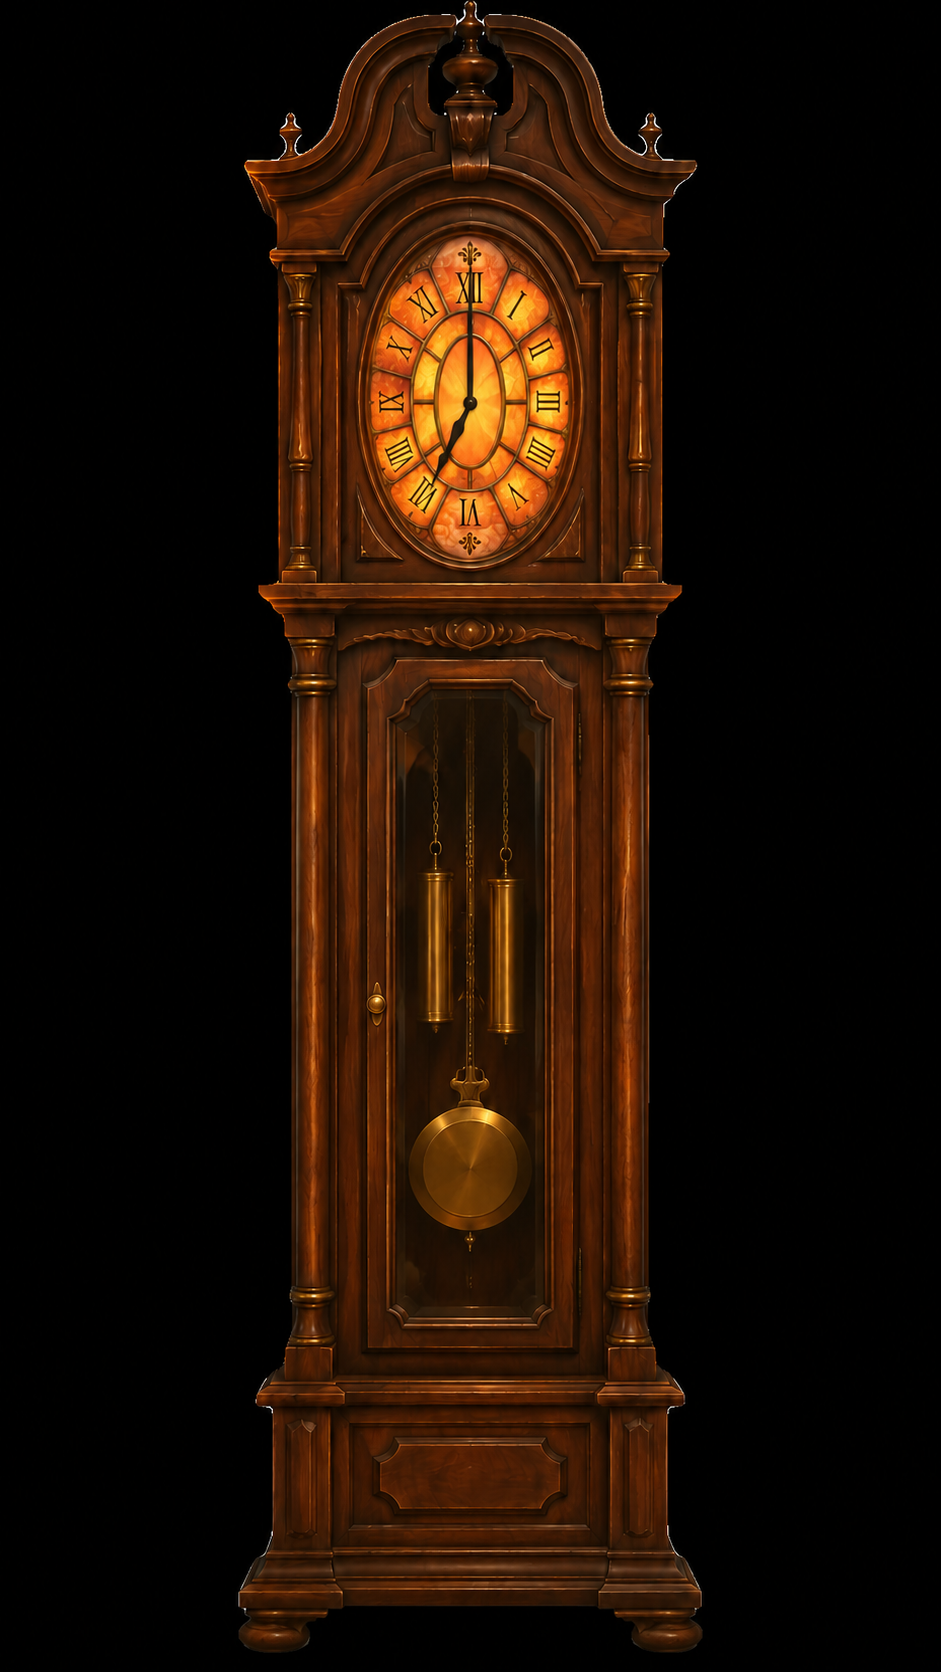
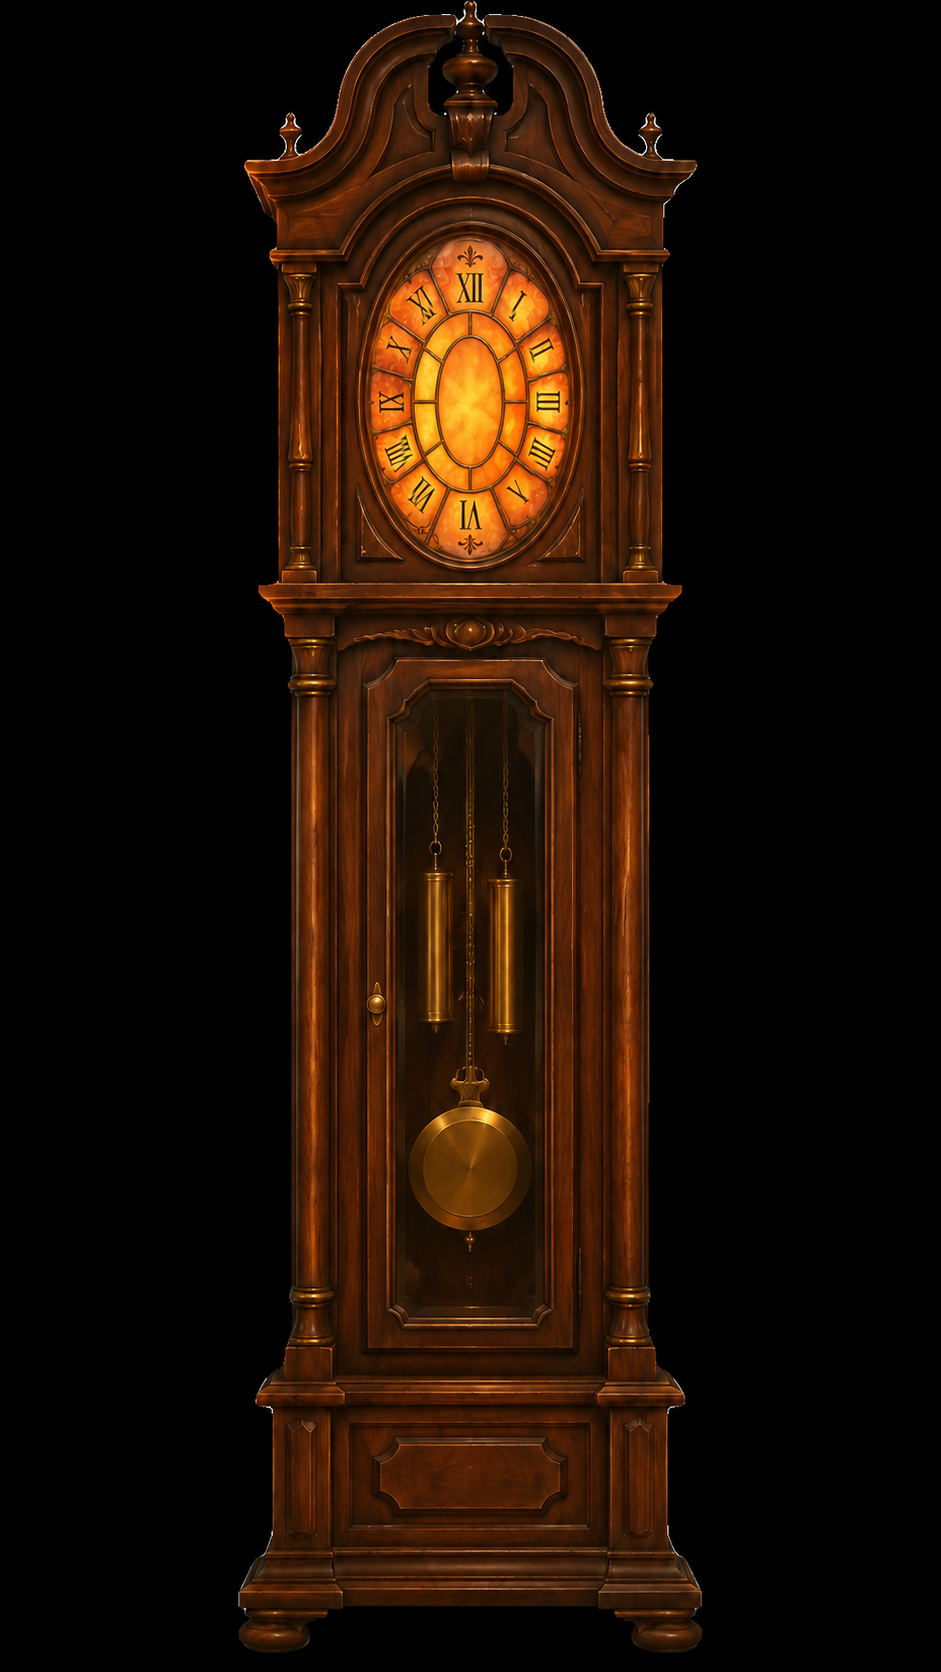
Add live hands for 7:00 clock

Changed region(s): [[0.4315, 0.1244, 0.5855, 0.3421]]

diff --git a/Assets/_Chateau/Scripts/Chapter/Chapter02/Chapter2GuestSearchController.cs b/Assets/_Chateau/Scripts/Chapter/Chapter02/Chapter2GuestSearchController.cs
@@ -523,6 +523,59 @@ public class Chapter2GuestSearchController : MonoBehaviour
         SeatGuestsInDiningRoom(GetFoundGuestsInOrder());
     }
 
+    public void DebugStageAllGuestsFoundForSevenPMSkip()
+    {
+        ResolveRoomNavigation();
+        RegisterRoomChangeHandler();
+        AutoDiscoverGuestsIfNeeded();
+        AutoAssignHideAnchorsIfNeeded();
+        activeConversationGuest = null;
+        activeConversationResumeStep = GuestConversationResumeStep.None;
+        foundOrderCounter = 0;
+
+        if (foundGuestIdsInOrder == null)
+        {
+            foundGuestIdsInOrder = new List<string>();
+        }
+
+        foundGuestIdsInOrder.Clear();
+
+        if (guests == null)
+        {
+            return;
+        }
+
+        guests.Sort(CompareGuestIdentity);
+
+        for (int i = 0; i < guests.Count; i++)
+        {
+            GuestSearchEntry guest = guests[i];
+
+            if (guest == null)
+            {
+                continue;
+            }
+
+            ApplyConversationSpecToGuest(guest);
+            foundOrderCounter++;
+            guest.found = true;
+            guest.foundOrder = foundOrderCounter;
+            foundGuestIdsInOrder.Add(GetGuestIdForOrderList(guest));
+            FillDefaultPreferences(guest);
+            EnsureGuestUsesPersistentActorRoot(guest);
+            DisableGuestFindAction(guest);
+
+            if (guest.actorState == null)
+            {
+                Debug.LogWarning($"7:00 PM skip missing ActorRoomState for guest '{GetGuestIdForOrderList(guest)}'.", this);
+                continue;
+            }
+
+            guest.actorState.enabled = true;
+            StageGuestForDiningRoomReveal(guest);
+        }
+    }
+
     public void AutoDiscoverGuestsIfNeeded()
     {
         if (guests == null)

diff --git a/Assets/_Chateau/Scripts/Chapter/Chapter02/Chapter2Controller.cs b/Assets/_Chateau/Scripts/Chapter/Chapter02/Chapter2Controller.cs
@@ -191,6 +191,58 @@ public class Chapter2Controller : MonoBehaviour
         SetPlayerInputEnabled(true);
     }
 
+    public void DebugSkipToSevenPMForTesting(ChapterManager manager)
+    {
+        chapterManager = manager != null ? manager : chapterManager;
+        ResolveReferences();
+        StopChapter2Coroutines();
+        SetPlayerInputEnabled(false);
+        SetDinnerClockAndStop();
+        InitializeInteractionHUD();
+
+        if (monsterStinger != null)
+        {
+            monsterStinger.StopStinger();
+        }
+
+        if (guestPanic != null)
+        {
+            guestPanic.StopPanic();
+        }
+
+        if (clockStrikeAudioSource != null)
+        {
+            clockStrikeAudioSource.Stop();
+        }
+
+        if (introUI != null)
+        {
+            introUI.HideOverlay();
+        }
+
+        if (guestSearch != null)
+        {
+            guestSearch.Initialize(this);
+            guestSearch.DebugStageAllGuestsFoundForSevenPMSkip();
+        }
+
+        allGuestsFoundHandled = false;
+        dinnerSeatingHandled = false;
+
+        if (interactionHUD != null)
+        {
+            interactionHUD.ClearDialogue();
+            interactionHUD.ClearClockStrike();
+            interactionHUD.ClearPrimaryAction();
+            interactionHUD.ClearStatus();
+            interactionHUD.SetObjective(string.Empty);
+        }
+
+        ClearSubtitles();
+        UpdateFoundGuestsHud();
+        BeginDiningRoomObjective();
+    }
+
     public void DebugResetForChapter2Skip(ChapterManager manager)
     {
         chapterManager = manager != null ? manager : chapterManager;

diff --git a/Assets/Scripts/Story/ChapterManager.cs b/Assets/Scripts/Story/ChapterManager.cs
@@ -339,6 +339,54 @@ public class ChapterManager : MonoBehaviour
         }
     }
 
+    [ContextMenu("Skip To 7:00 PM For Testing")]
+    public void SkipToSevenPMForTesting()
+    {
+        ResolveReferences();
+        StopActiveDialogueForChapterSkip();
+        StopChapterCoroutines();
+
+        if (eventScheduler != null)
+        {
+            eventScheduler.Clear();
+        }
+
+        if (chapterClock != null)
+        {
+            chapterClock.StopClock();
+        }
+
+        if (introUI != null)
+        {
+            introUI.HideOverlay();
+        }
+
+        SetPlayerInputEnabled(false);
+        currentChapterId = Chapter2Id;
+        displayedTitle = Chapter2Title;
+        chapterStarted = true;
+        SetPhase(ChapterPhase.Complete);
+        UpdateDebugSkipButtonVisibility();
+
+        if (chapter1ArrivalController != null)
+        {
+            chapter1ArrivalController.PrepareGuestsForChapter2Skip();
+            chapter1ArrivalController.HideGuestCoatsForChapter2Skip();
+        }
+
+        chapter2Controller = ResolveChapter2Controller(true);
+
+        if (chapter2Controller != null)
+        {
+            chapter2Controller.DebugSkipToSevenPMForTesting(this);
+        }
+        else
+        {
+            Debug.LogWarning("Skip to 7:00 PM requested, but Chapter2Controller could not be resolved.", this);
+            SetPlayerInputEnabled(true);
+        }
+    }
+
     private static void StopActiveDialogueForChapterSkip()
     {
         GuestVoiceLinePlayback.StopAnyCurrentLine();

diff --git a/Assets/Editor/Chapter2RegressionTests.cs b/Assets/Editor/Chapter2RegressionTests.cs
@@ -1346,6 +1346,34 @@ public class Chapter2RegressionTests
     }
 
     [Test]
+    public void Chapter2SevenPmDebugSkipRunsClockStrikeObjectiveBeforeDiningReveal()
+    {
+        string settingsText = File.ReadAllText(RuntimeSettingsMenuPath);
+        string managerText = File.ReadAllText(ChapterManagerPath);
+        string controllerText = File.ReadAllText(Chapter2ControllerPath);
+        string guestSearchText = File.ReadAllText(Chapter2GuestSearchControllerPath);
+        string managerSkipBody = ExtractMethodBody(managerText, "public void SkipToSevenPMForTesting");
+        string controllerSkipBody = ExtractMethodBody(controllerText, "public void DebugSkipToSevenPMForTesting");
+        string debugStageBody = ExtractMethodBody(guestSearchText, "public void DebugStageAllGuestsFoundForSevenPMSkip");
+
+        Assert.That(settingsText, Does.Contain("Button_SkipToSevenPM"));
+        Assert.That(settingsText, Does.Contain("\"Skip to 7:00 PM\""));
+        Assert.That(settingsText, Does.Contain("manager.SkipToSevenPMForTesting()"));
+        Assert.That(managerSkipBody, Does.Contain("currentChapterId = Chapter2Id"), "The 7:00 PM skip should stay in Chapter 2, not jump to Chapter 3.");
+        Assert.That(managerSkipBody, Does.Contain("displayedTitle = Chapter2Title"));
+        Assert.That(managerSkipBody, Does.Contain("chapter2Controller.DebugSkipToSevenPMForTesting(this)"));
+        Assert.That(managerSkipBody, Does.Not.Contain("Chapter3PendingId"), "The 7:00 PM skip must not use the Chapter 3 pending id.");
+        Assert.That(controllerSkipBody, Does.Contain("SetDinnerClockAndStop()"));
+        Assert.That(controllerSkipBody, Does.Contain("guestSearch.DebugStageAllGuestsFoundForSevenPMSkip()"));
+        Assert.That(controllerSkipBody, Does.Contain("BeginDiningRoomObjective()"), "The skip should run the same clock-strike / go-to-Dining-Room objective sequence as normal play.");
+        Assert.That(controllerSkipBody, Does.Not.Contain("MoveToDiningRoomForDebugSkip"), "The 7:00 PM skip should not teleport directly to the dining table.");
+        Assert.That(controllerSkipBody, Does.Not.Contain("DebugStageAllGuestsFoundForChapter3Skip"), "The 7:00 PM skip should not use the direct Chapter 3 seating path.");
+        Assert.That(debugStageBody, Does.Match(@"(?s)guests\.Sort\(CompareGuestIdentity\).*guest\.found\s*=\s*true.*FillDefaultPreferences\(guest\).*StageGuestForDiningRoomReveal\(guest\)"), "The 7:00 PM skip should mark every guest found and stage them hidden for the Dining Room reveal.");
+        Assert.That(debugStageBody, Does.Not.Contain("SeatGuestsInDiningRoom"), "Guests should only be seated after the player reaches the Dining Room objective.");
+        Assert.That(controllerText, Does.Contain("The clock strikes 7:00. Go to the Dining Room."));
+    }
+
+    [Test]
     public void Chapter2HideAnchorsAreAuthoredAcrossHouse()
     {
         string sceneText = File.ReadAllText(GameplayScenePath);
@@ -1392,6 +1420,10 @@ public class Chapter2RegressionTests
         Assert.That(hudText, Does.Contain("SetClockStrikeHand(clockStrikeHourHand"), "The strike close-up should draw the stationary thicker hour hand.");
         Assert.That(hudText, Does.Contain("SetClockStrikeHand(clockStrikeMinuteHand"), "The strike close-up should draw the stationary thicker minute hand.");
         Assert.That(hudText, Does.Contain("SetClockStrikeHand(clockStrikeSecondHand"), "The strike close-up should animate the second hand around the clock.");
+        Assert.That(hudText, Does.Contain("ClockStrikeFaceCenterYOffset = 0.267f"), "The close-up hands should be centered on the baked clock-face pivot.");
+        Assert.That(hudText, Does.Contain("ClockStrikeHandsDiameterScale = 0.22f"), "The close-up hands should stay inside the clock-face circle.");
+        Assert.That(hudText, Does.Contain("radius * 0.45f"), "The minute hand should fit within the clock-face circle.");
+        Assert.That(hudText, Does.Contain("radius * 0.52f"), "The ticking second hand should fit within the clock-face circle.");
         Assert.That(hudText, Does.Contain("IReadOnlyList<string>"));
         Assert.That(hudText, Does.Match(@"(?s)\bSetDialogueChoices\s*\([^)]*\)\s*\{.*EnsureUI\s*\(\s*\).*dialoguePanel\.SetActive\(true\).*SetDialogueChoice\(0"), "The first visible guest dialogue should not be hidden by EnsureUI before choices are installed.");
     }

diff --git a/Assets/_Chateau/Scripts/Chapter/Chapter02/Chapter2InteractionHUD.cs b/Assets/_Chateau/Scripts/Chapter/Chapter02/Chapter2InteractionHUD.cs
@@ -36,8 +36,8 @@ public class Chapter2InteractionHUD : MonoBehaviour
     private const string PrimaryButtonName = "Button_Chapter2PrimaryAction";
     private const string PrimaryButtonLabelName = "Text_Chapter2PrimaryAction";
     private const int DialogueChoiceCount = 3;
-    private const float ClockStrikeFaceCenterYOffset = 0.205f;
-    private const float ClockStrikeHandsDiameterScale = 0.29f;
+    private const float ClockStrikeFaceCenterYOffset = 0.267f;
+    private const float ClockStrikeHandsDiameterScale = 0.22f;
     private const float ClockStrikeSecondTicksPerSecond = 6f;
 
     private Chapter2Controller controller;
@@ -457,12 +457,12 @@ public class Chapter2InteractionHUD : MonoBehaviour
         clockStrikeImage.gameObject.SetActive(false);
 
         clockStrikeHandsRoot = FindOrCreateClockStrikeHandsRoot(clockStrikeRect);
-        clockStrikeHourHighlight = FindOrCreateClockStrikeHand(clockStrikeHandsRoot, ClockStrikeHourHighlightName, new Color(1f, 0.66f, 0.18f, 0.78f), 26f, false);
-        clockStrikeHourHand = FindOrCreateClockStrikeHand(clockStrikeHandsRoot, ClockStrikeHourHandName, new Color(0.02f, 0.012f, 0.004f, 1f), 18f, false);
-        clockStrikeMinuteHighlight = FindOrCreateClockStrikeHand(clockStrikeHandsRoot, ClockStrikeMinuteHighlightName, new Color(1f, 0.72f, 0.22f, 0.74f), 22f, false);
-        clockStrikeMinuteHand = FindOrCreateClockStrikeHand(clockStrikeHandsRoot, ClockStrikeMinuteHandName, new Color(0.02f, 0.012f, 0.004f, 1f), 14f, false);
-        clockStrikeSecondHand = FindOrCreateClockStrikeHand(clockStrikeHandsRoot, ClockStrikeSecondHandName, new Color(0.52f, 0.03f, 0.02f, 1f), 5f, false);
-        clockStrikeSecondTail = FindOrCreateClockStrikeHand(clockStrikeHandsRoot, ClockStrikeSecondTailName, new Color(0.9f, 0.58f, 0.12f, 1f), 4f, true);
+        clockStrikeHourHighlight = FindOrCreateClockStrikeHand(clockStrikeHandsRoot, ClockStrikeHourHighlightName, new Color(0.95f, 0.58f, 0.14f, 0.42f), 10f, false);
+        clockStrikeHourHand = FindOrCreateClockStrikeHand(clockStrikeHandsRoot, ClockStrikeHourHandName, new Color(0.02f, 0.012f, 0.004f, 0.92f), 7f, false);
+        clockStrikeMinuteHighlight = FindOrCreateClockStrikeHand(clockStrikeHandsRoot, ClockStrikeMinuteHighlightName, new Color(0.95f, 0.58f, 0.14f, 0.38f), 8f, false);
+        clockStrikeMinuteHand = FindOrCreateClockStrikeHand(clockStrikeHandsRoot, ClockStrikeMinuteHandName, new Color(0.02f, 0.012f, 0.004f, 0.92f), 5f, false);
+        clockStrikeSecondHand = FindOrCreateClockStrikeHand(clockStrikeHandsRoot, ClockStrikeSecondHandName, new Color(0.52f, 0.03f, 0.02f, 0.96f), 3f, false);
+        clockStrikeSecondTail = FindOrCreateClockStrikeHand(clockStrikeHandsRoot, ClockStrikeSecondTailName, new Color(0.9f, 0.58f, 0.12f, 0.88f), 2f, true);
         clockStrikeCenterPin = FindOrCreateClockStrikeCenterPin(clockStrikeHandsRoot);
         LayoutClockStrikeHands();
 
@@ -589,17 +589,17 @@ public class Chapter2InteractionHUD : MonoBehaviour
         LayoutClockStrikeHands();
 
         float radius = Mathf.Min(clockStrikeHandsRoot.rect.width, clockStrikeHandsRoot.rect.height) * 0.5f;
-        SetClockStrikeHand(clockStrikeHourHand, clockStrikeHourHighlight, 7f / 12f, radius * 0.48f);
-        SetClockStrikeHand(clockStrikeMinuteHand, clockStrikeMinuteHighlight, 0f, radius * 0.71f);
+        SetClockStrikeHand(clockStrikeHourHand, clockStrikeHourHighlight, 7f / 12f, radius * 0.31f);
+        SetClockStrikeHand(clockStrikeMinuteHand, clockStrikeMinuteHighlight, 0f, radius * 0.45f);
 
         int secondTick = Mathf.FloorToInt(Mathf.Max(0f, Time.unscaledTime - clockStrikeStartedAt) * ClockStrikeSecondTicksPerSecond);
         float secondProgress = Mathf.Repeat(secondTick / 60f, 1f);
-        SetClockStrikeHand(clockStrikeSecondHand, null, secondProgress, radius * 0.8f);
-        SetClockStrikeHand(clockStrikeSecondTail, null, secondProgress, radius * 0.18f);
+        SetClockStrikeHand(clockStrikeSecondHand, null, secondProgress, radius * 0.52f);
+        SetClockStrikeHand(clockStrikeSecondTail, null, secondProgress, radius * 0.08f);
 
         if (clockStrikeCenterPin != null)
         {
-            float pinSize = Mathf.Max(22f, radius * 0.14f);
+            float pinSize = Mathf.Max(12f, radius * 0.055f);
             clockStrikeCenterPin.sizeDelta = new Vector2(pinSize, pinSize);
         }
     }

diff --git a/Assets/Scripts/UI/RuntimeSettingsMenu.cs b/Assets/Scripts/UI/RuntimeSettingsMenu.cs
@@ -287,6 +287,7 @@ public class RuntimeSettingsMenu : MonoBehaviour
 
         debugButtonRow = FindOrCreateList(debugList, DebugButtonRowName, false);
         FindOrCreateButton(debugButtonRow, "Button_SkipToChapter2", "Skip to Chapter 2", SkipToChapter2);
+        FindOrCreateButton(debugButtonRow, "Button_SkipToSevenPM", "Skip to 7:00 PM", SkipToSevenPM);
         FindOrCreateButton(debugButtonRow, "Button_SkipToChapter3", "Skip to Chapter 3", SkipToChapter3);
         FindOrCreateButton(debugButtonRow, "Button_TeleportToRoom", "Teleport to Room", ToggleRoomList);
 
@@ -396,6 +397,21 @@ public class RuntimeSettingsMenu : MonoBehaviour
         CloseSettingsForGameplayCommand();
         GuestVoiceLinePlayback.StopAnyCurrentLine();
         manager.SkipToChapter3ForTesting();
+    }
+
+    private void SkipToSevenPM()
+    {
+        ChapterManager manager = ResolveChapterManager();
+
+        if (manager == null)
+        {
+            return;
+        }
+
+        roomListOpen = false;
+        CloseSettingsForGameplayCommand();
+        GuestVoiceLinePlayback.StopAnyCurrentLine();
+        manager.SkipToSevenPMForTesting();
     }
 
     private void CloseSettingsForGameplayCommand()